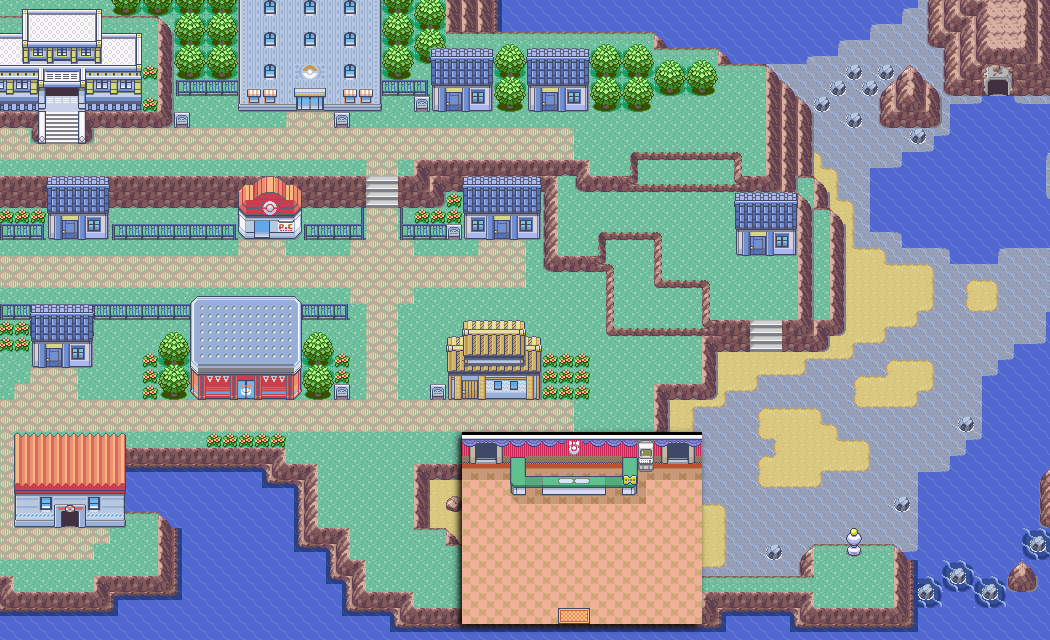
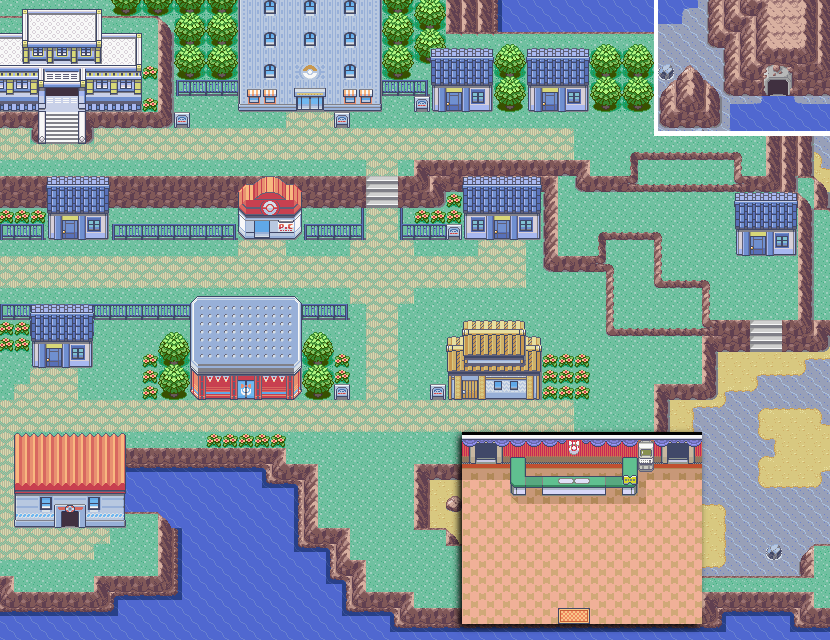
Made lilycove smaller

diff --git a/render.js b/render.js
@@ -29,6 +29,9 @@ const CONFIG_YOFFSET = 5;
 
 const LOADING_TEXT = "Loading map...";
 
+let debug_widths  = [];
+let debug_heights = [];
+
 let aux_canvas;
 let aux_context;
 let rerender_all = true;
@@ -120,6 +123,9 @@ function ImageLoaded() {
             console.log(GetNameImage(this.src));
         }
 
+        debug_heights.push({ value: this.naturalHeight, name: this.src});
+        debug_widths.push ({ value: this.naturalWidth , name: this.src});
+
         //if (this.naturalWidth  > loading_process.max_width)  console.log(this.src);
         //if (this.naturalHeight > loading_process.max_height) console.log(this.src);
 
@@ -131,6 +137,13 @@ function ImageLoaded() {
 
     loading_process.loaded += 1;
     if (loading_process.loaded == loading_process.to_load) {
+        debug_heights.sort((a, b) => (a.value > b.value) ? 1 : -1);
+        debug_widths.sort ((a, b) => (a.value > b.value) ? 1 : -1);
+
+        console.log(debug_heights);
+        console.log(debug_widths);
+
+
         // Set canvas dimensions
         game.max_width  = loading_process.max_width;
         game.max_height = loading_process.max_height;

diff --git a/emerald.js b/emerald.js
@@ -164,7 +164,7 @@ var emerald = {
             hall:         {x: 243, y: 354, name: "Lilycove City"          },
             motel:        {x: 469, y: 356, name: "Lilycove City"          },
             harbor:       {x: 82,  y: 485, name: "Lilycove City"          },
-            aqua:         {x: 968, y: 53 , name: "Lilycove (Aqua Hideout)"},
+            aqua:         {x: 758, y: 53 , name: "Lilycove (Aqua Hideout)"},
             hall_left:    {x: 487, y: 482, name: "Lilycove (Contest Hall)"},
             hall_right:   {x: 677, y: 480, name: "Lilycove (Contest Hall)"},
             hall_bot:     {x: 571, y: 587, name: "Lilycove (Contest Hall)"},
